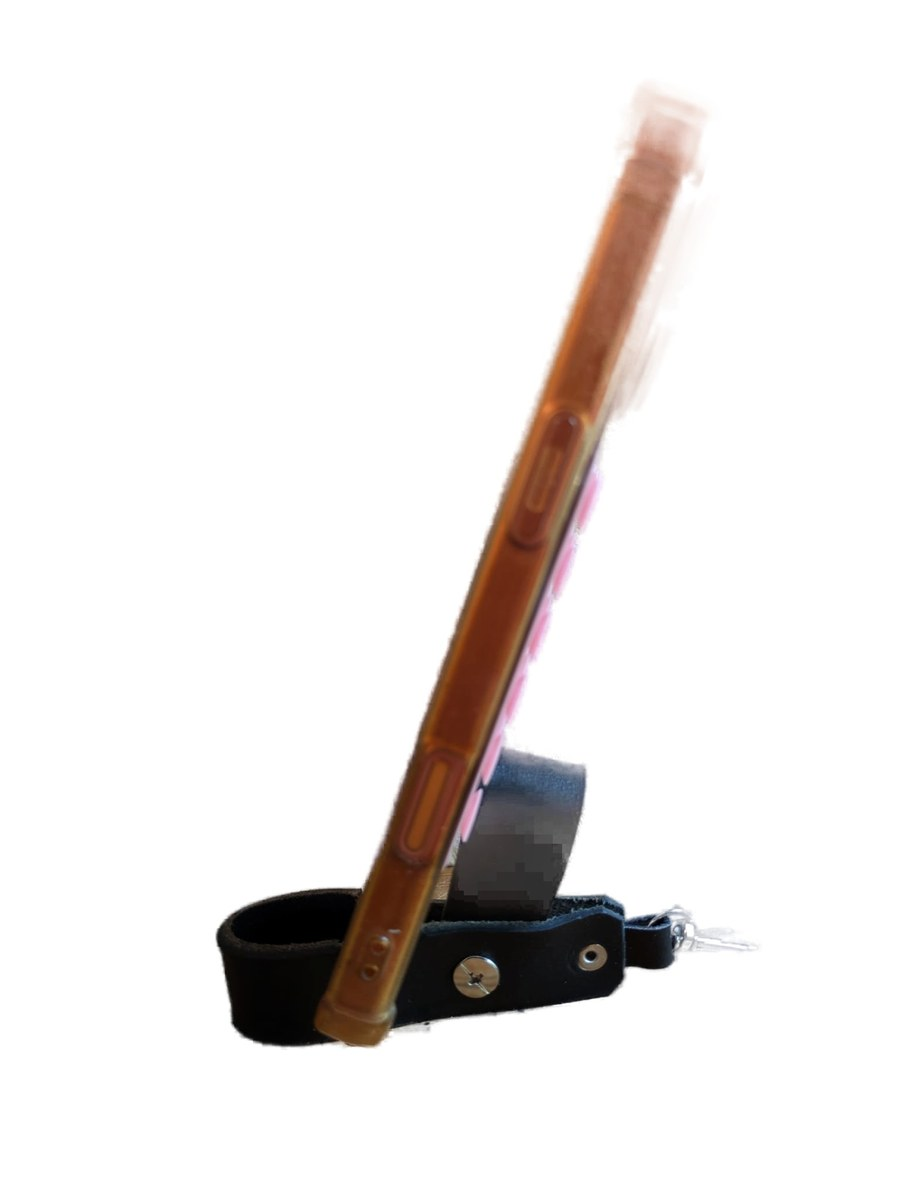
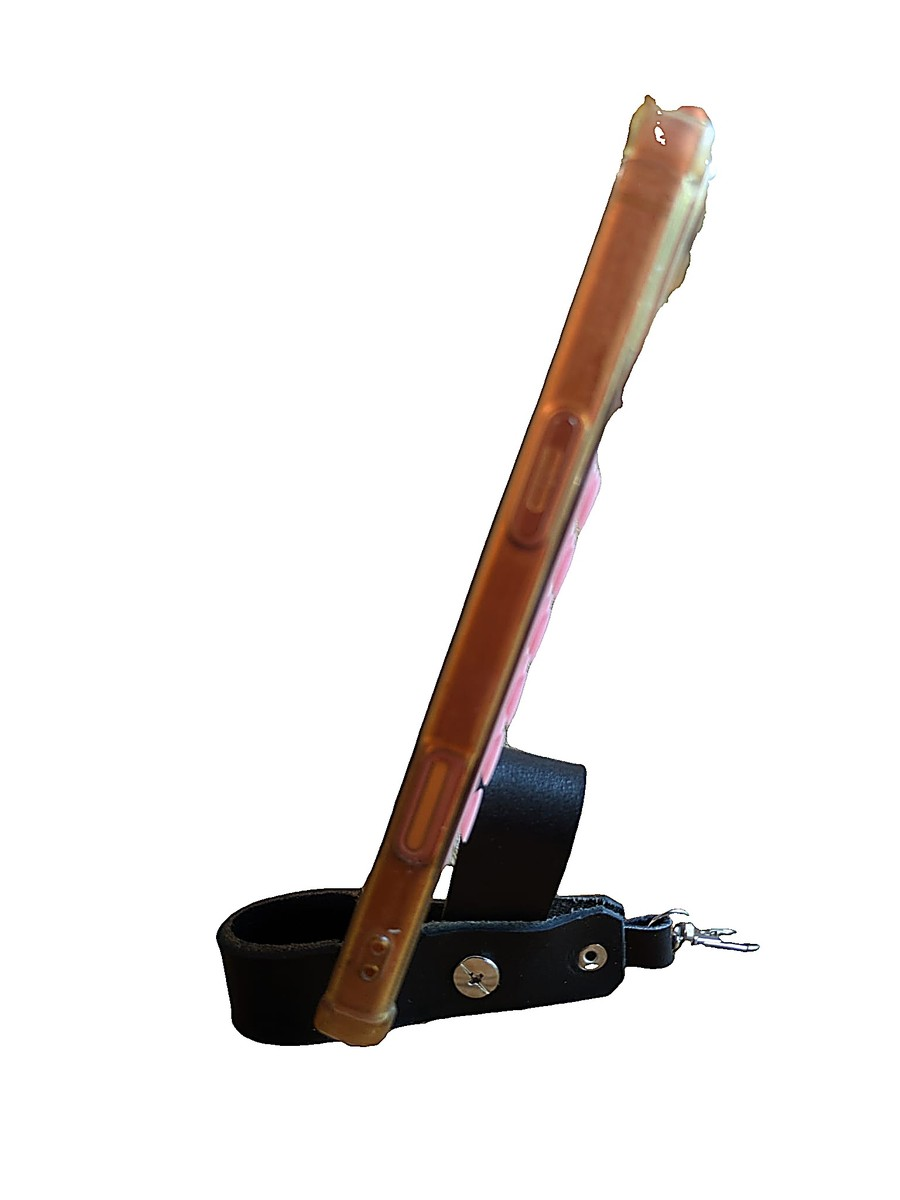
Tagebuch: neuer Eintrag ueber gefertigte Lederhalsbaender (BEST, FRIEND, Charly, Uebelst gefaehrlich, getragen, Making-of)

diff --git a/tagebuch.html b/tagebuch.html
@@ -68,6 +68,20 @@
 
     <!-- Neuer Eintrag: dieses <article>-Muster kopieren und oben (direkt nach diesem Kommentar) einfügen -->
     <article class="eintrag">
+      <p class="eintrag-datum">9. November 2026</p>
+      <h2>Unsere Lederhalsbänder: ein kleiner Rückblick auf das, was wir bisher gefertigt haben</h2>
+      <p>Jedes unserer Halsbänder ist ein Unikat und entsteht von Hand in unserer Ledermanufaktur – aus echtem Leder, in eurer Wunschfarbe und mit dem Namen oder Spruch eures Vierbeiners. Hier ein kleiner Rückblick auf ein paar Lieblingsstücke, die bei uns entstanden sind: das grüne „BEST“ und „FRIEND“ mit passender Ziernaht, das elegante bronzefarbene „Charly“, das kräftige „Übelst gefährlich“ in Braun und ein rotes Halsband, das wir euch hier direkt am Hund getragen zeigen. Und weil jedes Stück von Hand entsteht, gibt es auch einen Blick auf die Fertigung. Ihr habt auch einen Wunsch für euren Hund? Meldet euch gerne bei uns. <a href="kontakt.html">Kontakt aufnehmen</a>.</p>
+      <div class="fotoreihe">
+        <picture><source srcset="assets/tagebuch-halsbaender-best.webp" type="image/webp"><img src="assets/tagebuch-halsbaender-best.jpg" width="1200" height="800" loading="lazy" alt="Grünes Lederhalsband mit erhabenem Schriftzug BEST und grüner Ziernaht, im Garten fotografiert"></picture>
+        <picture><source srcset="assets/tagebuch-halsbaender-friend.webp" type="image/webp"><img src="assets/tagebuch-halsbaender-friend.jpg" width="1200" height="800" loading="lazy" alt="Dunkelbraunes Lederhalsband mit grünem Schriftzug FRIEND und grüner Ziernaht, im Garten fotografiert"></picture>
+        <picture><source srcset="assets/tagebuch-halsbaender-charly.webp" type="image/webp"><img src="assets/tagebuch-halsbaender-charly.jpg" width="1200" height="901" loading="lazy" alt="Bronzefarbenes Lederhalsband mit grünem Schriftzug Charly, gepolstert und mit Messingring"></picture>
+        <picture><source srcset="assets/tagebuch-halsbaender-gefaehrlich.webp" type="image/webp"><img src="assets/tagebuch-halsbaender-gefaehrlich.jpg" width="1200" height="901" loading="lazy" alt="Braunes Lederhalsband mit eingeprägtem Schriftzug Übelst gefährlich und Edelstahlringen"></picture>
+        <picture><source srcset="assets/tagebuch-halsbaender-getragen.webp" type="image/webp"><img src="assets/tagebuch-halsbaender-getragen.jpg" width="900" height="1200" loading="lazy" alt="Hund sitzt im Garten und trägt ein rotes Lederhalsband nach Maß"></picture>
+        <picture><source srcset="assets/tagebuch-halsbaender-charly-entstehung.webp" type="image/webp"><img src="assets/tagebuch-halsbaender-charly-entstehung.jpg" width="1200" height="1599" loading="lazy" alt="Lederstreifen mit von Hand eingeritztem Schriftzug Charly auf der Schneidematte während der Fertigung"></picture>
+      </div>
+    </article>
+
+    <article class="eintrag">
       <p class="eintrag-datum">12. Oktober 2026</p>
       <h2>Unsere neueste Idee: Schlüsselanhänger mit integrierter Handyhalterung</h2>
       <p>Das ist unsere neueste Idee: ein Schlüsselanhänger mit integrierter Handyhalterung. Praktisch zwei in einem: die Schlüssel sicher am Mann und das Handy mit einem Handgriff aufgestellt, egal ob fürs Video, das Rezept beim Kochen oder die Freisprech-Navigation. Gefertigt aus echtem Leder in unserer Ledermanufaktur. Auf Wunsch erstellen wir ihn mit eurer Farbwahl und individueller Lasergravur. Schaut gerne bei uns vorbei oder meldet euch. <a href="kontakt.html">Kontakt aufnehmen</a>.</p>
